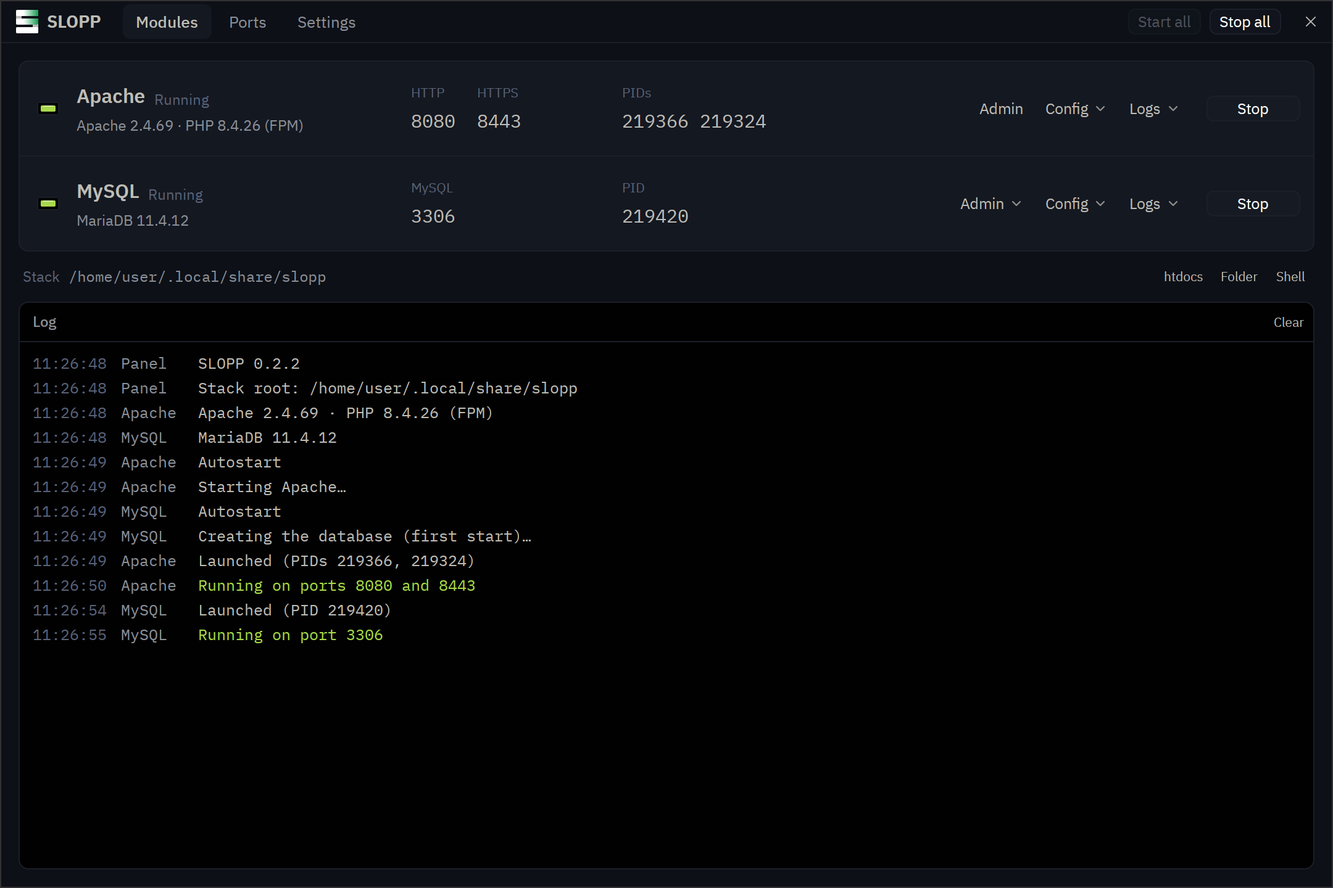
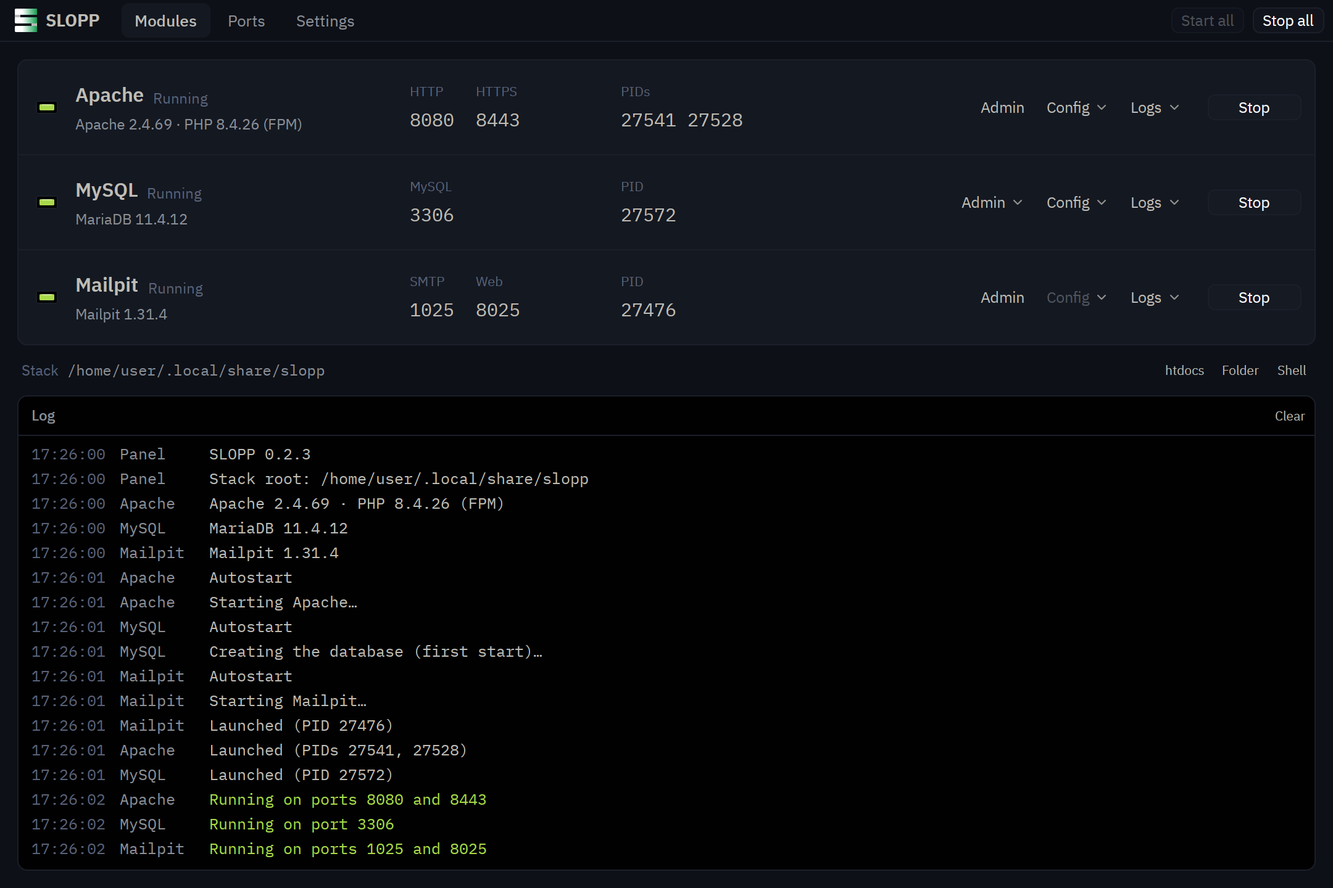
Show Mailpit on the website
The marks get their bottom lamp, the demo rack a Mailpit unit, and the
text, install notes, folder and sloppctl lists mention it. New
screenshots with all three modules running.

diff --git a/site/index.html b/site/index.html
@@ -4,10 +4,10 @@
 <meta charset="utf-8">
 <meta name="viewport" content="width=device-width, initial-scale=1">
 <title>SLOPP</title>
-<meta name="description" content="An XAMPP-style control panel for Apache, PHP and MariaDB, rewritten in Rust with GPUI, for Linux, macOS and Windows.">
+<meta name="description" content="An XAMPP-style control panel for Apache, PHP, MariaDB and Mailpit, rewritten in Rust with GPUI, for Linux, macOS and Windows.">
 <meta name="color-scheme" content="dark light">
 <meta property="og:title" content="SLOPP">
-<meta property="og:description" content="An XAMPP-style control panel for Apache, PHP and MariaDB, rewritten in Rust with GPUI, for Linux, macOS and Windows.">
+<meta property="og:description" content="An XAMPP-style control panel for Apache, PHP, MariaDB and Mailpit, rewritten in Rust with GPUI, for Linux, macOS and Windows.">
 <meta property="og:type" content="website">
 <meta property="og:url" content="https://slopp.gs0.me/">
 <meta property="og:image" content="https://slopp.gs0.me/panel-dark.png">
@@ -177,6 +177,7 @@ p { margin: 0; }
 .btn:disabled { color: var(--text-3); cursor: default; background: var(--face); }
 .btn.ghost { border-color: transparent; background: none; color: var(--text); }
 .btn.ghost:hover { background: var(--wash-1); }
+.btn.ghost:disabled { color: var(--text-3); background: none; }
 .btn.primary { background: var(--accent); border-color: var(--accent); color: var(--on-accent); font-weight: 600; }
 .btn.primary:hover { filter: brightness(1.08); }
 .btn.primary:active { filter: brightness(0.9); }
@@ -207,6 +208,7 @@ p { margin: 0; }
 }
 .hero-mark button.apache-switch { top: 0; }
 .hero-mark button.mysql-switch { top: 37%; }
+.hero-mark button.mailpit-switch { top: 74.1%; }
 .hero-mark button:disabled { cursor: progress; }
 .hero-mark .hint { margin-top: 14px; text-align: center; font-size: 12px; color: var(--text-3); }
 .intro h1 { font-size: clamp(28px, 4vw, 40px); line-height: 1.12; letter-spacing: -0.015em; max-width: 22ch; }
@@ -277,7 +279,7 @@ p { margin: 0; }
 .log { height: 236px; overflow-y: auto; }
 .log .line { display: flex; gap: 12px; white-space: nowrap; }
 .log .t { color: var(--text-3); }
-.log .m { width: 52px; flex: none; color: var(--text-2); }
+.log .m { width: 62px; flex: none; color: var(--text-2); }
 .log .ok { color: var(--ok); }
 .log .detail { color: var(--text-2); }
 
@@ -349,9 +351,9 @@ footer a { color: var(--text-2); }
 .mark .unit-r { fill: var(--unit); }
 .mark .link-r { fill: var(--link); }
 .mark stop { stop-color: var(--lamp-on); stop-opacity: 0; transition: stop-color 0.25s, stop-opacity 0.35s; }
-.mark[data-apache="on"] .apache stop.end, .mark[data-mysql="on"] .mysql stop.end { stop-opacity: 1; }
-.mark[data-apache="busy"] .apache stop, .mark[data-mysql="busy"] .mysql stop { stop-color: var(--lamp-busy); }
-.mark[data-apache="busy"] .apache stop.end, .mark[data-mysql="busy"] .mysql stop.end { stop-opacity: 1; animation: blink 1.1s ease-in-out infinite alternate; }
+.mark[data-apache="on"] .apache stop.end, .mark[data-mysql="on"] .mysql stop.end, .mark[data-mailpit="on"] .mailpit stop.end { stop-opacity: 1; }
+.mark[data-apache="busy"] .apache stop, .mark[data-mysql="busy"] .mysql stop, .mark[data-mailpit="busy"] .mailpit stop { stop-color: var(--lamp-busy); }
+.mark[data-apache="busy"] .apache stop.end, .mark[data-mysql="busy"] .mysql stop.end, .mark[data-mailpit="busy"] .mailpit stop.end { stop-opacity: 1; animation: blink 1.1s ease-in-out infinite alternate; }
 @keyframes blink { to { stop-opacity: 0.3; } }
 .lamp-black { display: none; }
 [data-theme="light"] .lamp-white { display: none; }
@@ -363,13 +365,15 @@ footer a { color: var(--text-2); }
 <div class="window">
   <header class="titlebar" id="titlebar">
     <a class="brand" href="#top" aria-label="SLOPP, back to the top">
-      <svg class="mark" id="mark" data-apache="off" data-mysql="off" viewBox="42 42 428 432" aria-hidden="true">
+      <svg class="mark" id="mark" data-apache="off" data-mysql="off" data-mailpit="off" viewBox="42 42 428 432" aria-hidden="true">
         <defs>
           <!-- A lit lamp fades in from x=185 (tray::icon::LAMP_CLEAR); white ink is solid at the right edge, black ink from x=299. -->
           <linearGradient id="apache-w" class="apache" gradientUnits="userSpaceOnUse" x1="185" x2="470" y1="0" y2="0"><stop offset="0"/><stop class="end" offset="1"/></linearGradient>
           <linearGradient id="mysql-w" class="mysql" gradientUnits="userSpaceOnUse" x1="185" x2="470" y1="0" y2="0"><stop offset="0"/><stop class="end" offset="1"/></linearGradient>
+          <linearGradient id="mailpit-w" class="mailpit" gradientUnits="userSpaceOnUse" x1="185" x2="470" y1="0" y2="0"><stop offset="0"/><stop class="end" offset="1"/></linearGradient>
           <linearGradient id="apache-b" class="apache" gradientUnits="userSpaceOnUse" x1="185" x2="299" y1="0" y2="0"><stop offset="0"/><stop class="end" offset="1"/></linearGradient>
           <linearGradient id="mysql-b" class="mysql" gradientUnits="userSpaceOnUse" x1="185" x2="299" y1="0" y2="0"><stop offset="0"/><stop class="end" offset="1"/></linearGradient>
+          <linearGradient id="mailpit-b" class="mailpit" gradientUnits="userSpaceOnUse" x1="185" x2="299" y1="0" y2="0"><stop offset="0"/><stop class="end" offset="1"/></linearGradient>
         </defs>
         <rect class="link-r" x="42" y="98" width="112" height="160"/>
         <rect class="link-r" x="358" y="258" width="112" height="160"/>
@@ -379,10 +383,12 @@ footer a { color: var(--text-2); }
         <g class="lamp-white">
           <rect x="185" y="42" width="285" height="112" rx="20" fill="url(#apache-w)"/>
           <rect x="185" y="202" width="285" height="112" rx="20" fill="url(#mysql-w)"/>
+          <rect x="185" y="362" width="285" height="112" rx="20" fill="url(#mailpit-w)"/>
         </g>
         <g class="lamp-black">
           <rect x="185" y="42" width="285" height="112" rx="20" fill="url(#apache-b)"/>
           <rect x="185" y="202" width="285" height="112" rx="20" fill="url(#mysql-b)"/>
+          <rect x="185" y="362" width="285" height="112" rx="20" fill="url(#mailpit-b)"/>
         </g>
       </svg>
       SLOPP
@@ -407,22 +413,24 @@ footer a { color: var(--text-2); }
     <div class="intro">
       <div>
         <h1>Apache, PHP and MariaDB, run from one panel.</h1>
-        <p class="lede">SLOPP is an XAMPP-style control panel, rewritten in Rust with a native GPUI interface, for Linux, macOS and Windows. It runs the stock servers your system already has, keeps the whole stack in one folder, and shows what's listening on which port.</p>
+        <p class="lede">SLOPP is an XAMPP-style control panel, rewritten in Rust with a native GPUI interface, for Linux, macOS and Windows. It runs the stock servers your system already has, catches the mail your PHP sends in Mailpit, keeps the whole stack in one folder, and shows what's listening on which port.</p>
         <div class="actions">
-          <a class="btn primary lg" id="download" href="https://github.com/gabors0/slopp/releases/latest"><span>Download</span> <span class="sub" id="version">0.2.2</span></a>
+          <a class="btn primary lg" id="download" href="https://github.com/gabors0/slopp/releases/latest"><span>Download</span> <span class="sub" id="version">0.2.3</span></a>
           <a class="btn lg" href="#install">All platforms</a>
           <a class="btn ghost lg" href="https://github.com/gabors0/slopp">Source</a>
         </div>
       </div>
       <div class="hero-mark">
         <div class="switches">
-          <svg class="mark" id="hero-mark-svg" data-apache="off" data-mysql="off" viewBox="42 42 428 432" role="img" aria-label="SLOPP's mark: three rack units. The top lamp is Apache, the middle one MySQL.">
+          <svg class="mark" id="hero-mark-svg" data-apache="off" data-mysql="off" data-mailpit="off" viewBox="42 42 428 432" role="img" aria-label="SLOPP's mark: three rack units, whose lamps are Apache, MySQL and Mailpit, top to bottom.">
             <defs>
               <!-- A lit lamp fades in from x=185 (tray::icon::LAMP_CLEAR); white ink is solid at the right edge, black ink from x=299. -->
               <linearGradient id="hero-apache-w" class="apache" gradientUnits="userSpaceOnUse" x1="185" x2="470" y1="0" y2="0"><stop offset="0"/><stop class="end" offset="1"/></linearGradient>
               <linearGradient id="hero-mysql-w" class="mysql" gradientUnits="userSpaceOnUse" x1="185" x2="470" y1="0" y2="0"><stop offset="0"/><stop class="end" offset="1"/></linearGradient>
+              <linearGradient id="hero-mailpit-w" class="mailpit" gradientUnits="userSpaceOnUse" x1="185" x2="470" y1="0" y2="0"><stop offset="0"/><stop class="end" offset="1"/></linearGradient>
               <linearGradient id="hero-apache-b" class="apache" gradientUnits="userSpaceOnUse" x1="185" x2="299" y1="0" y2="0"><stop offset="0"/><stop class="end" offset="1"/></linearGradient>
               <linearGradient id="hero-mysql-b" class="mysql" gradientUnits="userSpaceOnUse" x1="185" x2="299" y1="0" y2="0"><stop offset="0"/><stop class="end" offset="1"/></linearGradient>
+              <linearGradient id="hero-mailpit-b" class="mailpit" gradientUnits="userSpaceOnUse" x1="185" x2="299" y1="0" y2="0"><stop offset="0"/><stop class="end" offset="1"/></linearGradient>
             </defs>
             <rect class="link-r" x="42" y="98" width="112" height="160"/>
             <rect class="link-r" x="358" y="258" width="112" height="160"/>
@@ -432,14 +440,17 @@ footer a { color: var(--text-2); }
             <g class="lamp-white">
               <rect x="185" y="42" width="285" height="112" rx="20" fill="url(#hero-apache-w)"/>
               <rect x="185" y="202" width="285" height="112" rx="20" fill="url(#hero-mysql-w)"/>
+              <rect x="185" y="362" width="285" height="112" rx="20" fill="url(#hero-mailpit-w)"/>
             </g>
             <g class="lamp-black">
               <rect x="185" y="42" width="285" height="112" rx="20" fill="url(#hero-apache-b)"/>
               <rect x="185" y="202" width="285" height="112" rx="20" fill="url(#hero-mysql-b)"/>
+              <rect x="185" y="362" width="285" height="112" rx="20" fill="url(#hero-mailpit-b)"/>
             </g>
           </svg>
           <button class="apache-switch" type="button" data-toggle="apache" aria-label="Start Apache"></button>
           <button class="mysql-switch" type="button" data-toggle="mysql" aria-label="Start MySQL"></button>
+          <button class="mailpit-switch" type="button" data-toggle="mailpit" aria-label="Start Mailpit"></button>
         </div>
         <p class="hint">Click a unit to start or stop it.</p>
       </div>
@@ -487,6 +498,27 @@ footer a { color: var(--text-2); }
           <button class="btn primary toggle" type="button" data-toggle="mysql">Start</button>
         </div>
       </div>
+      <div class="unit" data-module="mailpit">
+        <div class="who">
+          <span class="bezel"><span class="led" data-led="mailpit"></span></span>
+          <div>
+            <div class="name"><h3>Mailpit</h3><span class="state" data-state-of="mailpit">Stopped</span></div>
+            <div class="detail">Mailpit 1.31 · catches PHP's mail</div>
+          </div>
+        </div>
+        <dl class="readings ports">
+          <div class="reading"><dt>SMTP</dt><dd data-live="mailpit">1025</dd></div>
+          <div class="reading"><dt>Web</dt><dd data-live="mailpit">8025</dd></div>
+        </dl>
+        <dl class="readings pids">
+          <div class="reading"><dt>PID</dt><dd data-pids="mailpit">—</dd></div>
+        </dl>
+        <div class="acts">
+          <button class="btn ghost" type="button" disabled>Config</button>
+          <a class="btn ghost" href="#folder">Logs</a>
+          <button class="btn primary toggle" type="button" data-toggle="mailpit">Start</button>
+        </div>
+      </div>
     </div>
 
     <div class="stackline">
@@ -505,12 +537,12 @@ footer a { color: var(--text-2); }
     <div class="page">
       <section class="group" aria-labelledby="modules-h">
         <div class="label">
-          <h2 id="modules-h">Two modules, like XAMPP</h2>
-          <p class="desc">Apache and MySQL, without Tomcat, FTP or mail.</p>
+          <h2 id="modules-h">Three modules, like XAMPP</h2>
+          <p class="desc">Apache, MySQL and Mailpit for mail, without Tomcat or FTP.</p>
         </div>
         <div class="content">
-          <p>SLOPP doesn't bundle the servers: it finds the ones you installed, on <code>PATH</code> and in the usual places, and Settings takes explicit paths. Apache runs PHP through PHP-FPM, or mod_php where PHP has an Apache module. MariaDB gets a database on its first start, and phpMyAdmin or Adminer is downloaded when you ask for it, served at <code>/phpmyadmin/</code> or <code>/adminer/</code>.</p>
-          <p class="muted">Ports default to XAMPP's 80, 443 and 3306, or 8080 and 8443 where your user can't use low ports.</p>
+          <p>SLOPP doesn't bundle the servers: it finds the ones you installed, on <code>PATH</code> and in the usual places, and Settings takes explicit paths. Apache runs PHP through PHP-FPM, or mod_php where PHP has an Apache module. MariaDB gets a database on its first start, and phpMyAdmin or Adminer is downloaded when you ask for it, served at <code>/phpmyadmin/</code> or <code>/adminer/</code>. PHP's <code>mail()</code> goes to Mailpit, which keeps every message in the stack and shows it in its own web page, so nothing leaves your machine.</p>
+          <p class="muted">Ports default to XAMPP's 80, 443 and 3306, or 8080 and 8443 where your user can't use low ports, and Mailpit's own 1025 for SMTP and 8025 for its page.</p>
         </div>
       </section>
 
@@ -521,10 +553,10 @@ footer a { color: var(--text-2); }
         </div>
         <div class="content">
           <div class="cards">
-            <div class="card"><h3>Starts and stops each server</h3><p>One button per module, with its ports, PIDs and a log of what happened. Config errors show up with line numbers before Apache starts.</p></div>
+            <div class="card"><h3>Starts and stops each server</h3><p>One button per module, with its ports, PIDs and a log of what happened. Install gets a missing server with your package manager. Config errors show up with line numbers before Apache starts.</p></div>
             <div class="card"><h3>Leaves your config alone</h3><p>Config files are written once and never overwritten. Ports and paths go on the command line at start, so changing a port doesn't touch your edits.</p></div>
             <div class="card"><h3>Finds port conflicts</h3><p>The Ports page shows which program holds 80, 443 and 3306, so you know why a server won't start before you go looking.</p></div>
-            <div class="card"><h3>Lives in the tray</h3><p>The icon's lamps show what's running: the top one is Apache, the middle one MySQL. Its menu starts and stops modules and opens the site.</p></div>
+            <div class="card"><h3>Lives in the tray</h3><p>The icon's lamps show what's running: Apache, MySQL and Mailpit, top to bottom. Its menu starts and stops modules and opens the site or Mailpit's inbox.</p></div>
             <div class="card"><h3>Keeps servers running</h3><p>Close the panel and your site stays up, as with XAMPP. Settings can stop everything on quit instead.</p></div>
             <div class="card"><h3>Follows your appearance</h3><p>Dark and light, from Ayu, set in IBM Plex. System follows the OS, or pick one in Settings, as in this page's title bar.</p></div>
           </div>
@@ -534,12 +566,12 @@ footer a { color: var(--text-2); }
       <section class="group" aria-labelledby="shot-h">
         <div class="label">
           <h2 id="shot-h">The real window</h2>
-          <p class="desc">Apache on 8080 and 8443 with PHP-FPM, MariaDB on 3306, after an autostart.</p>
+          <p class="desc">Apache on 8080 and 8443 with PHP-FPM, MariaDB on 3306 and Mailpit on 1025 and 8025, after an autostart.</p>
         </div>
         <div class="content">
           <figure class="shot">
-            <img class="dark" src="panel-dark.png" width="2160" height="1440" loading="lazy" alt="The SLOPP window in its dark appearance: Apache running on ports 8080 and 8443 with PHP 8.4 through PHP-FPM, MySQL running MariaDB on port 3306, the stack folder, and a log of the start.">
-            <img class="light" src="panel-light.png" width="2160" height="1440" loading="lazy" alt="The SLOPP window in its light appearance: Apache running on ports 8080 and 8443 with PHP 8.4 through PHP-FPM, MySQL running MariaDB on port 3306, the stack folder, and a log of the start.">
+            <img class="dark" src="panel-dark.png" width="2160" height="1440" loading="lazy" alt="The SLOPP window in its dark appearance: Apache running on ports 8080 and 8443 with PHP 8.4 through PHP-FPM, MySQL running MariaDB on port 3306, Mailpit on ports 1025 and 8025, the stack folder, and a log of the start.">
+            <img class="light" src="panel-light.png" width="2160" height="1440" loading="lazy" alt="The SLOPP window in its light appearance: Apache running on ports 8080 and 8443 with PHP 8.4 through PHP-FPM, MySQL running MariaDB on port 3306, Mailpit on ports 1025 and 8025, the stack folder, and a log of the start.">
           </figure>
         </div>
       </section>
@@ -562,7 +594,7 @@ footer a { color: var(--text-2); }
                 <code id="cmd-linux">curl -fsSL https://slopp.gs0.me/install.sh | sh</code>
                 <button class="btn copy" type="button" data-copy="cmd-linux">Copy</button>
               </div>
-              <p class="muted">Installs Apache, PHP and MariaDB with apt, dnf, pacman or zypper, then the AppImage to <code>~/.local/bin</code>. On NixOS, use <code>nix run github:gabors0/slopp</code> instead.</p>
+              <p class="muted">Installs Apache, PHP and MariaDB with apt, dnf, pacman or zypper, then the AppImage to <code>~/.local/bin</code>. Mailpit isn't packaged by the distributions: its Install button in SLOPP downloads it. On NixOS, use <code>nix run github:gabors0/slopp</code> instead.</p>
               <div class="files">
                 <a class="btn" data-asset="linux-x86_64.AppImage" href="https://github.com/gabors0/slopp/releases/latest">AppImage</a>
                 <a class="btn" data-asset="linux-x86_64.tar.gz" href="https://github.com/gabors0/slopp/releases/latest">Tarball</a>
@@ -574,14 +606,14 @@ footer a { color: var(--text-2); }
                 <code id="cmd-macos">curl -fsSL https://slopp.gs0.me/install.sh | sh</code>
                 <button class="btn copy" type="button" data-copy="cmd-macos">Copy</button>
               </div>
-              <p class="muted">Installs PHP and MariaDB with Homebrew, then puts <code>SLOPP.app</code> in Applications and clears the quarantine flag.</p>
+              <p class="muted">Installs PHP and MariaDB with Homebrew, then puts <code>SLOPP.app</code> in Applications and clears the quarantine flag. SLOPP's Install button gets Mailpit with Homebrew too.</p>
               <div class="files">
                 <a class="btn" data-asset="macos-arm64.dmg" href="https://github.com/gabors0/slopp/releases/latest">Disk image</a>
               </div>
             </div>
             <div class="tab-panel" data-panel="windows">
               <p class="req">x86_64, Windows 10 or newer. New, so expect rough edges.</p>
-              <p>Run the setup. Then click Install on a module whose servers are missing: SLOPP gets Apache, PHP and MariaDB with winget. An existing XAMPP's work too.</p>
+              <p>Run the setup. Then click Install on a module whose servers are missing: SLOPP gets Apache, PHP, MariaDB and Mailpit with winget. An existing XAMPP's work too.</p>
               <div class="files">
                 <a class="btn primary" data-asset="windows-x86_64-setup.exe" href="https://github.com/gabors0/slopp/releases/latest">Download setup</a>
                 <a class="btn" data-asset="windows-x86_64.zip" href="https://github.com/gabors0/slopp/releases/latest">Portable zip</a>
@@ -607,18 +639,20 @@ php/php.ini
 mysql/my.cnf
 mysql/data/       <span class="c">the databases</span>
 phpMyAdmin/       <span class="c">once you get it</span>
-adminer/          <span class="c">once you get it</span></pre>
+adminer/          <span class="c">once you get it</span>
+mailpit/          <span class="c">the mail PHP sent</span></pre>
           </div>
           <div class="well" id="sloppctl">
             <header>sloppctl <span class="c">XAMPP's lampp, on the same stack</span></header>
-<pre><span class="p">$ </span>sloppctl start [apache|mysql]
-<span class="p">$ </span>sloppctl stop [apache|mysql]
-<span class="p">$ </span>sloppctl restart [apache|mysql]
+<pre><span class="p">$ </span>sloppctl start [apache|mysql|mailpit]
+<span class="p">$ </span>sloppctl stop [apache|mysql|mailpit]
+<span class="p">$ </span>sloppctl restart [apache|mysql|mailpit]
 <span class="p">$ </span>sloppctl status
 <span class="p">$ </span>sloppctl ports      <span class="c">who listens where</span>
 <span class="p">$ </span>sloppctl paths      <span class="c">the stack and programs</span>
 <span class="p">$ </span>sloppctl install-phpmyadmin
-<span class="p">$ </span>sloppctl install-adminer</pre>
+<span class="p">$ </span>sloppctl install-adminer
+<span class="p">$ </span>sloppctl install-servers  <span class="c">what's missing</span></pre>
           </div>
         </div>
       </section>
@@ -639,7 +673,7 @@ adminer/          <span class="c">once you get it</span></pre>
   </main>
 
   <footer>
-    <span>Free software under the <a href="https://github.com/gabors0/slopp/blob/main/LICENSE">GPL 3.0 or later</a>. Apache httpd, PHP, MariaDB, phpMyAdmin and Adminer have their own licenses.</span>
+    <span>Free software under the <a href="https://github.com/gabors0/slopp/blob/main/LICENSE">GPL 3.0 or later</a>. Apache httpd, PHP, MariaDB, Mailpit, phpMyAdmin and Adminer have their own licenses.</span>
     <span>Built with <a href="https://gpui-kit.com">gpui-kit</a>. Colours from <a href="https://github.com/ayu-theme/ayu-colors">Ayu</a>. Set in IBM Plex.</span>
   </footer>
 </div>
@@ -689,6 +723,7 @@ adminer/          <span class="c">once you get it</span></pre>
   const modules = {
     apache: { name: "Apache", up: "Running on ports 8080 and 8443", start: 900, stop: 600, procs: 2, state: "off" },
     mysql: { name: "MySQL", up: "Running on port 3306", start: 1700, stop: 900, procs: 1, state: "off" },
+    mailpit: { name: "Mailpit", up: "Running on ports 1025 and 8025", start: 500, stop: 400, procs: 1, state: "off" },
   };
 
   function set(id, state, pids) {
@@ -742,14 +777,17 @@ adminer/          <span class="c">once you get it</span></pre>
   });
   set("apache", "off");
   set("mysql", "off");
+  set("mailpit", "off");
 
-  say("Panel", "SLOPP 0.2.2");
+  say("Panel", "SLOPP 0.2.3");
   say("Panel", "Stack root: ~/.local/share/slopp");
   say("Apache", "Apache 2.4.69 · PHP 8.4.26 (FPM)", "detail");
   say("MySQL", "MariaDB 11.4.12", "detail");
-  // Autostart, as with {"autostart": ["apache", "mysql"]}.
+  say("Mailpit", "Mailpit 1.31.6", "detail");
+  // Autostart, as with {"autostart": ["apache", "mysql", "mailpit"]}.
   setTimeout(() => { say("Apache", "Autostart"); toggle("apache"); }, still ? 0 : 600);
   setTimeout(() => { say("MySQL", "Autostart"); toggle("mysql"); }, still ? 0 : 900);
+  setTimeout(() => { say("Mailpit", "Autostart"); toggle("mailpit"); }, still ? 0 : 1200);
 
   // Appearance, as in the panel's settings.
   const switches = $$(".segmented button");

diff --git a/CLAUDE.md b/CLAUDE.md
@@ -27,7 +27,7 @@ nix build                                                               # result
 - Releases: bump `version` in the workspace `Cargo.toml`, then push a matching tag (`git tag v0.2.0 && git push origin v0.2.0`). `.github/workflows/release.yml` builds a Linux x86_64 AppImage and tarball (plain cargo on Ubuntu 24.04, so glibc ≥ 2.39), an Apple silicon dmg and a Windows x86_64 Inno Setup installer and zip, and publishes them as a GitHub release; a tag that doesn't match the version fails the run. "Run workflow" builds without releasing, all platforms or one (`gh workflow run release.yml --ref <branch> -f platforms=windows`).
 - Debug builds: `.github/workflows/debug.yml` runs only by hand ("Run workflow", or `gh workflow run debug.yml --ref <branch> -f platforms=linux|macos|windows|all`) and attaches the dev-profile binaries with their debug info (`.dSYM` on macOS, `.pdb` on Windows) to the run for 14 days. It restores CI's check-job cache (read-only, `shared-key: check`), so its build environment must stay the same as CI's.
 - CI: `.github/workflows/ci.yml` runs on every branch push (and on pull requests from forks): `fmt --check`, `clippy -D warnings` and the workspace tests on Linux, macOS and Windows, then `crates/slopp-core/tests/servers.rs` against apt's servers (PHP-FPM and mod_php) and Homebrew's (Homebrew httpd with mod_php, Apple's httpd with PHP-FPM). The server tests are `#[ignore]`d so a plain `cargo test` never launches servers; they start Apache, PHP and MariaDB in temporary roots on free ports, print the servers' logs when they fail, and stop everything even then. Inside the Nix shell they find the servers on PATH; outside it, Ubuntu's `apache2 php-fpm php-mysql mariadb-server` (plus `libapache2-mod-php` for mod_php) work too.
-- Website: `site/` is a static one-page site (`index.html` with inline CSS/JS, no build), deployed by Vercel (project `slopp`, https://slopp.gs0.me; gs0.me's DNS is on Cloudflare, with a DNS-only CNAME to Vercel): the root `vercel.json` serves `site/` as is, sets its headers, and skips Git deploys for commits that touch none of `site/`, `vercel.json` and `.vercelignore`; `.vercelignore` keeps `vercel deploy` from the repo root to those two. Vercel Web Analytics is on: the page loads `/_vercel/insights/script.js`, which only exists on Vercel (a local preview 404s it, harmlessly). The page is drawn as the panel's own window on a desktop backdrop, so keep it in step with the app's views: a sticky title bar (brand, tabs as section links, the System/Dark/Light appearance as a segmented control), a working demo of the rack (`views/rack.rs`: bezel LEDs, readings, Start/Stop) feeding a log like `views/console.rs`, then settings-style groups (`views/settings.rs`' 220px label column) and a status-bar footer. It reuses the panel's Ayu palette tokens, sizes and IBM Plex (woff2 made from `assets/fonts` with `woff2_compress`); the appearance script in `<head>` sets `data-theme` before first paint, remembered in `localStorage`; light styles key on `[data-theme="light"]`, and the screenshot swaps with it. The intro's big mark (its units toggle the demo, like the tray) and the title bar's small one redraw `tray::icon`'s geometry in SVG with live lamps, as `brand::mark` does, so keep them in step if the mark changes. Download links start at `releases/latest` and the page swaps in the asset URLs from the GitHub API, matched by file-name suffix (`linux-x86_64.AppImage`, `macos-arm64.dmg`, `windows-x86_64-setup.exe`, …), so keep those suffixes stable. `panel-dark.png`/`panel-light.png` are 2160×1440 shots from the headless sway setup below, run in `bwrap` with `/home` a tmpfs and `HOME=/home/user` (bind `~/.cargo` back in: debug builds read gpui-kit's icons from the registry at runtime), with autostart of both modules on 8080/8443/3306.
+- Website: `site/` is a static one-page site (`index.html` with inline CSS/JS, no build), deployed by Vercel (project `slopp`, https://slopp.gs0.me; gs0.me's DNS is on Cloudflare, with a DNS-only CNAME to Vercel): the root `vercel.json` serves `site/` as is, sets its headers, and skips Git deploys for commits that touch none of `site/`, `vercel.json` and `.vercelignore`; `.vercelignore` keeps `vercel deploy` from the repo root to those two. Vercel Web Analytics is on: the page loads `/_vercel/insights/script.js`, which only exists on Vercel (a local preview 404s it, harmlessly). The page is drawn as the panel's own window on a desktop backdrop, so keep it in step with the app's views: a sticky title bar (brand, tabs as section links, the System/Dark/Light appearance as a segmented control), a working demo of the rack (`views/rack.rs`: bezel LEDs, readings, Start/Stop) feeding a log like `views/console.rs`, then settings-style groups (`views/settings.rs`' 220px label column) and a status-bar footer. It reuses the panel's Ayu palette tokens, sizes and IBM Plex (woff2 made from `assets/fonts` with `woff2_compress`); the appearance script in `<head>` sets `data-theme` before first paint, remembered in `localStorage`; light styles key on `[data-theme="light"]`, and the screenshot swaps with it. The intro's big mark (its units toggle the demo, like the tray) and the title bar's small one redraw `tray::icon`'s geometry in SVG with live lamps, as `brand::mark` does, so keep them in step if the mark changes. Download links start at `releases/latest` and the page swaps in the asset URLs from the GitHub API, matched by file-name suffix (`linux-x86_64.AppImage`, `macos-arm64.dmg`, `windows-x86_64-setup.exe`, …), so keep those suffixes stable. `panel-dark.png`/`panel-light.png` are 2160×1440 shots from the headless sway setup below, run in `bwrap` with `/home` a tmpfs and `HOME=/home/user` (bind `~/.cargo` back in: debug builds read gpui-kit's icons from the registry at runtime), with autostart of all three modules on 8080/8443/3306/1025/8025 (`grim` by its full path: the dev shell's `PATH` replaces sway's), then `oxipng -o 4 --strip safe`.
 - Try the stack without the GUI: `SLOPP_ROOT=<dir> XDG_CONFIG_HOME=<dir> sloppctl start|stop|status|ports|paths|install-phpmyadmin|install-adminer|install-servers`.
 
 ## Running and inspecting the UI
